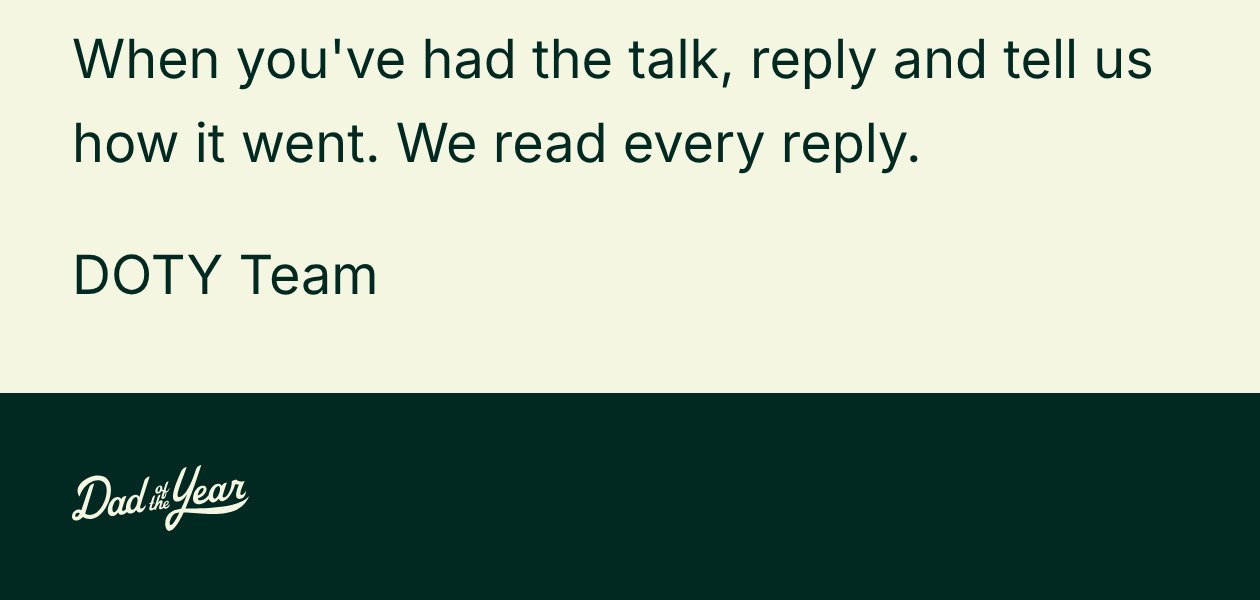
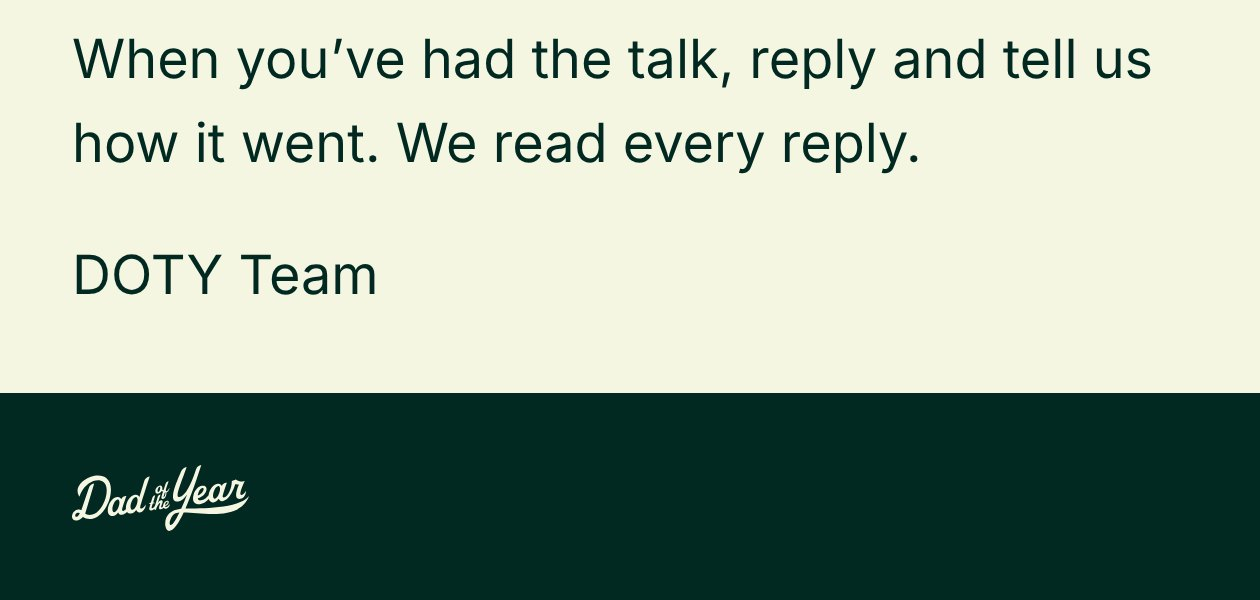
Typography sweep: curly apostrophes on the thank you note and in three email images
Claude-Session: https://claude.ai/code/session_01Rp9NVVe45MozVVS8ERvHpr

diff --git a/public/thanks.html b/public/thanks.html
@@ -98,7 +98,7 @@
         <li class="st2"><b>2</b><span id="s2">Tap Add to Home Screen.</span></li>
         <li class="st3"><b>3</b><span id="s3">Listen to two or three audio cards today.</span></li>
       </ol>
-      <p class="ty-note">If the email isn't there in a few minutes, check your spam folder. If it's not there either, reply to your receipt and we'll send it again.</p>
+      <p class="ty-note">If the email isn&rsquo;t there in a few minutes, check your spam folder. If it&rsquo;s not there either, reply to your receipt and we&rsquo;ll send it again.</p>
       <div class="ty-gift">
         <h2>You also get a <em>free gift</em></h2>
         <p id="pb">Your order comes with 52 Saturday Mornings That Will Live Forever. The link is in the same email.</p>
